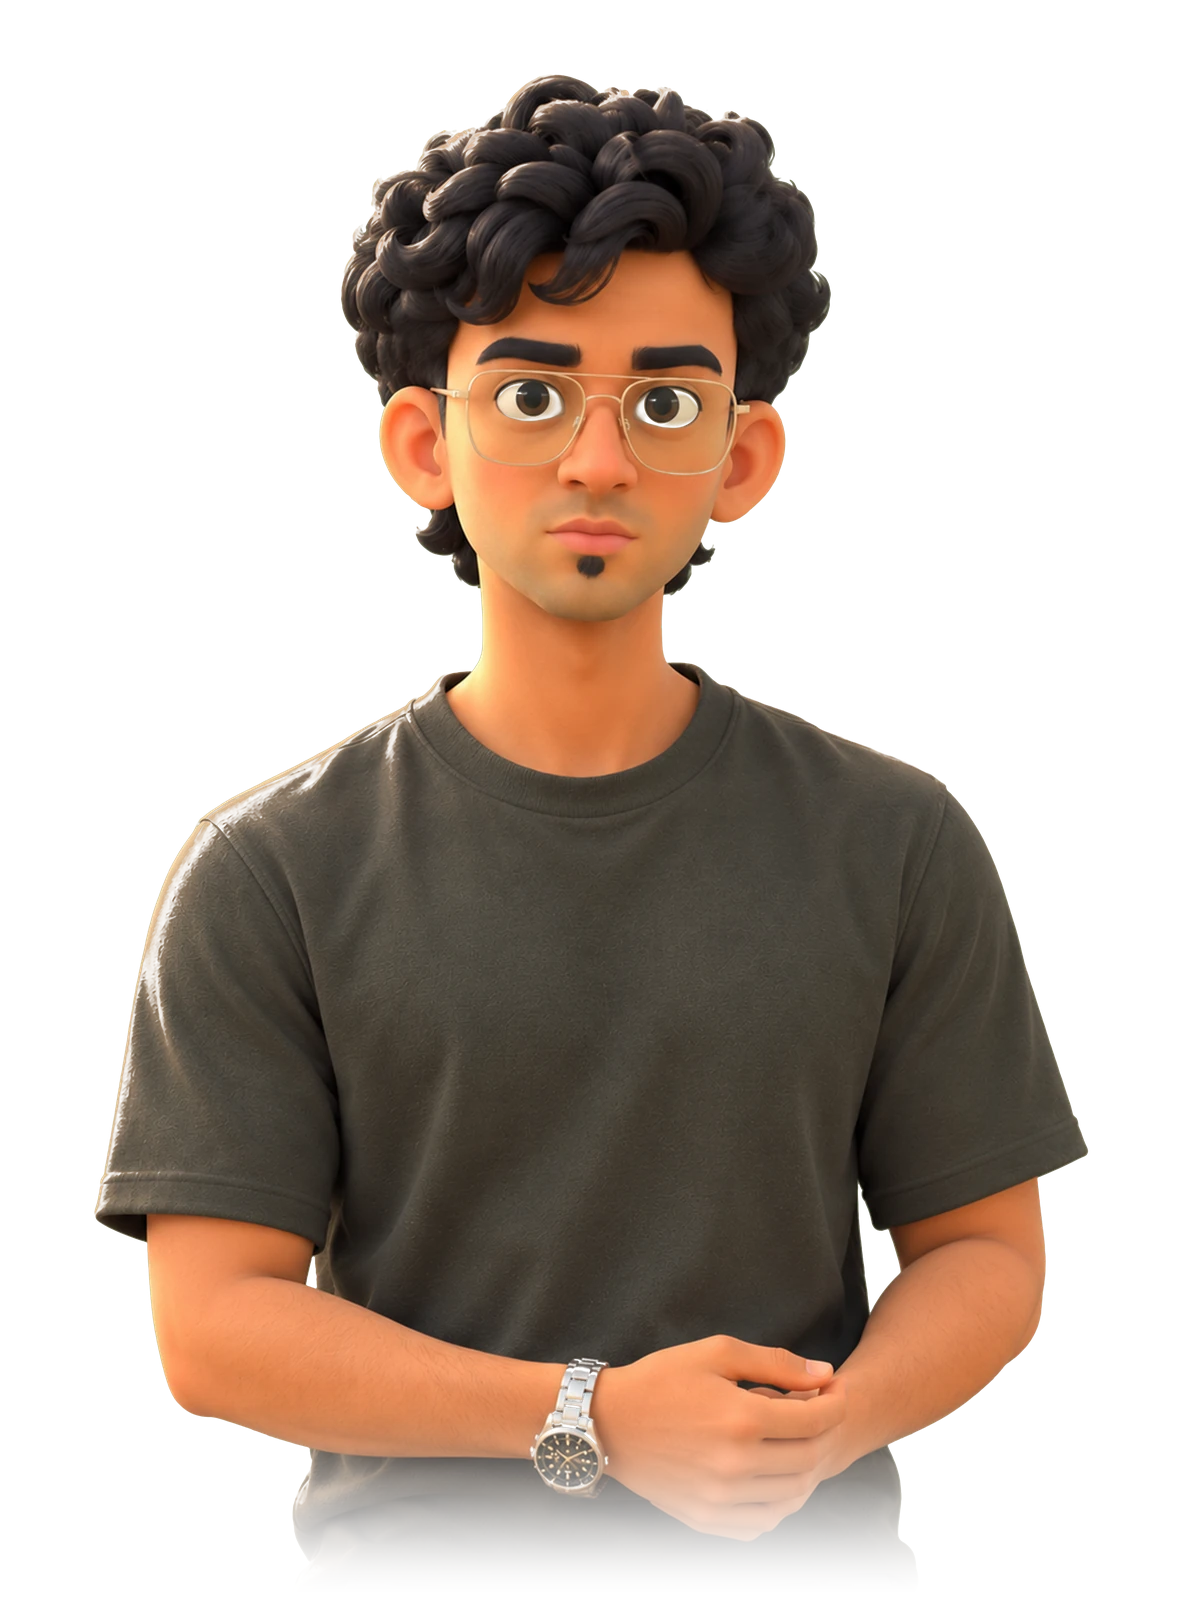
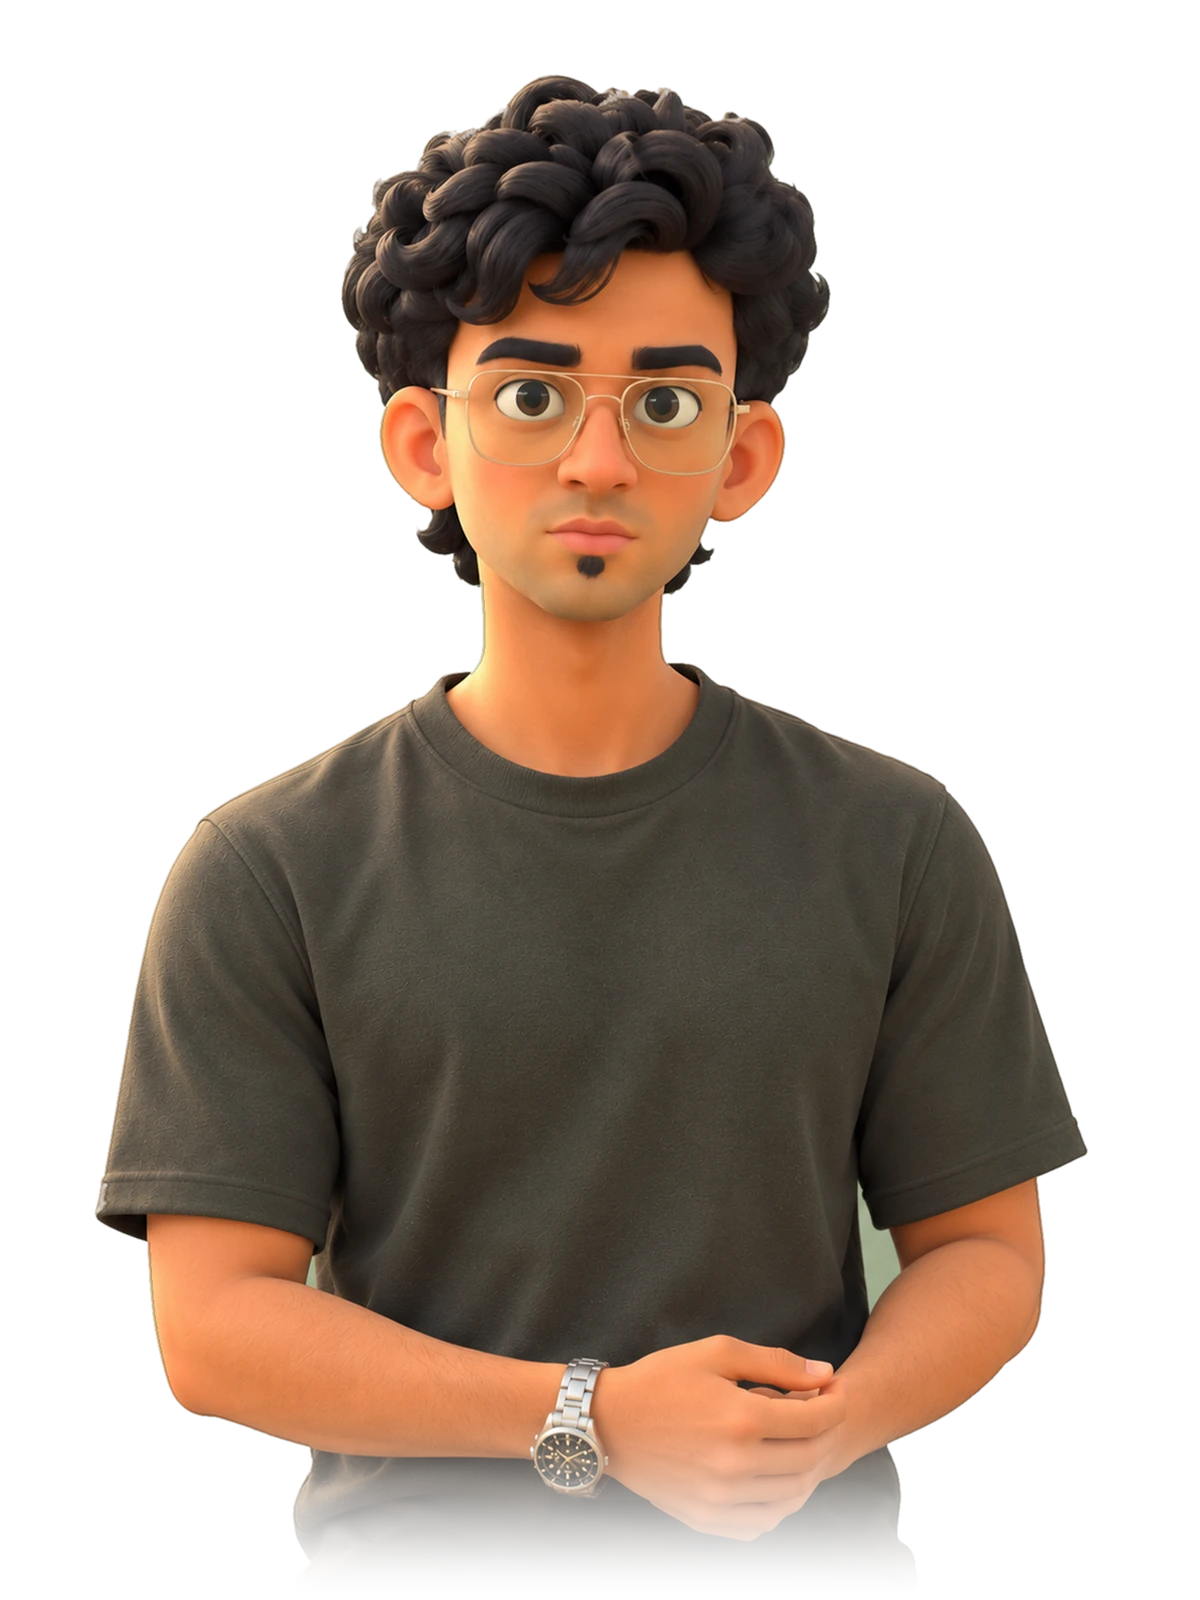
Black-to-purple background and cleaner character cut-out
- Background gradient #000000 (top) to #7644ff (bottom), steeper so
  both colours show in the narrow camera view
- Loader ring uses the purple accent
- Re-cut avatar so only the outer background is removed (keeps eye
  whites and hair gaps) and trim the light edge fringe

Claude-Session: https://claude.ai/code/session_013f5zckAHpWrwKiZqFaK68a

diff --git a/web/src/styles.css b/web/src/styles.css
@@ -1432,13 +1432,13 @@ canvas {
 
 .lr-arc {
   fill: none;
-  stroke: #6f906f;
+  stroke: #7644ff;
   stroke-width: 3;
   stroke-linecap: round;
   transform: rotate(-90deg);
   transform-origin: 50% 50%;
   transition: stroke-dashoffset 0.35s ease;
-  filter: drop-shadow(0 0 6px rgba(111, 144, 111, 0.55));
+  filter: drop-shadow(0 0 6px rgba(118, 68, 255, 0.55));
 }
 
 @keyframes lrSpin {
